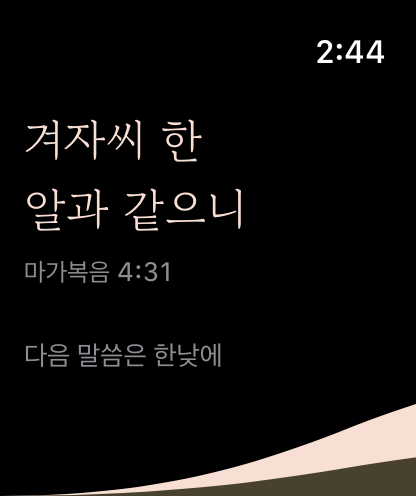
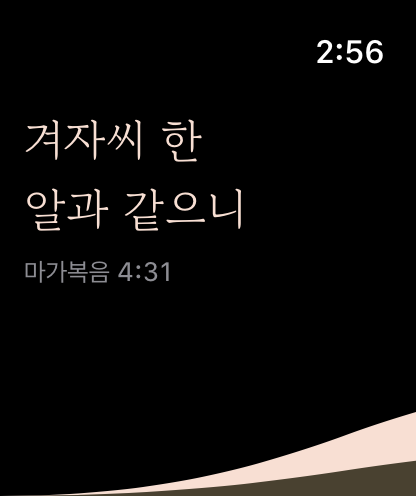
feat: 홍보 스크린샷, 워치 겹침 수정, 큰 글자 대응

diff --git a/design/screenshots-store/source/board.html b/design/screenshots-store/source/board.html
@@ -1,0 +1,1 @@
+<!doctype html><html lang="ko"><meta charset="utf-8"><style>@font-face{font-family:GB;src:url(../../sarak-3/fonts/GowunBatang-Regular.ttf)}body{margin:0;width:2900px}section{position:relative;overflow:hidden;margin-bottom:40px}.bg{position:absolute;left:0;top:0}h1{position:absolute;margin:0;font:400 1em/1.36 GB;letter-spacing:-.035em;white-space:nowrap}h1 small{display:block;margin-top:.7em;letter-spacing:-.02em;font-family:"Apple SD Gothic Neo",sans-serif}.dev{position:absolute;background:#171413;box-shadow:0 30px 70px rgba(74,55,51,.20)}.dev img{display:block}section[id^=Watch] .dev{box-shadow:none}section[id^=Watch] small{display:none}</style><body><section id="iPhone-1" style="width:1320px;height:2868px"><svg class="bg" width="1320" height="2868"><rect width="1320" height="2868" fill="#DDE8DC"/><path d="M0 0H1320V2553C1030 2648 713 2868 0 2868Z" fill="#FCF6E3"/><path d="M0 0H1320V2168C1030 2378 713 2868 0 2868Z" fill="#F5EACB"/></svg><h1 style="left:120px;top:190px;font-size:128px;color:#40322F">오늘의 말씀이<br>찾아옵니다<small style="color:#6B5B57;font-size:46px">아침을 여는 한 구절</small></h1><div class="dev" style="left:141px;top:870px;border-radius:144px;padding:14px;transform:rotate(0deg)"><img src="../../screenshots-raw/iPhone/ph-room-morning.png" style="width:1010px;border-radius:130px"></div></section><section id="iPhone-2" style="width:1320px;height:2868px"><svg class="bg" width="1320" height="2868"><rect width="1320" height="2868" fill="#F8DFD3"/><path d="M0 0H1320V2553C1030 2648 713 2868 0 2868Z" fill="#F2EFF6"/><path d="M0 0H1320V2168C1030 2378 713 2868 0 2868Z" fill="#E2DDEA"/></svg><h1 style="left:120px;top:190px;font-size:128px;color:#40322F">하루 네 번,<br>사락<small style="color:#6B5B57;font-size:46px">아침 · 한낮 · 쉼 · 밤</small></h1><div class="dev" style="left:110px;top:640px;border-radius:75px;padding:9px;transform:rotate(0deg)"><img src="../../screenshots-raw/iPhone/ph-room-morning.png" style="width:512px;border-radius:66px"></div><div class="dev" style="left:680px;top:760px;border-radius:75px;padding:9px;transform:rotate(0deg)"><img src="../../screenshots-raw/iPhone/ph-room-noon.png" style="width:512px;border-radius:66px"></div><div class="dev" style="left:110px;top:1860px;border-radius:75px;padding:9px;transform:rotate(0deg)"><img src="../../screenshots-raw/iPhone/ph-room-rest.png" style="width:512px;border-radius:66px"></div><div class="dev" style="left:680px;top:1980px;border-radius:75px;padding:9px;transform:rotate(0deg)"><img src="../../screenshots-raw/iPhone/ph-room-night.png" style="width:512px;border-radius:66px"></div></section><section id="iPhone-3" style="width:1320px;height:2868px"><svg class="bg" width="1320" height="2868"><rect width="1320" height="2868" fill="#E2DDEA"/><path d="M0 0H1320V2553C1030 2648 713 2868 0 2868Z" fill="#EFF5EE"/><path d="M0 0H1320V2168C1030 2378 713 2868 0 2868Z" fill="#DDE8DC"/></svg><h1 style="left:120px;top:190px;font-size:128px;color:#40322F">하루 5분,<br>마가복음 한 권<small style="color:#6B5B57;font-size:46px">25일이면 끝까지 읽어요</small></h1><div class="dev" style="left:141px;top:870px;border-radius:144px;padding:14px;transform:rotate(0deg)"><img src="../../screenshots-raw/iPhone/ph-read-morning.png" style="width:1010px;border-radius:130px"></div></section><section id="iPhone-4" style="width:1320px;height:2868px"><svg class="bg" width="1320" height="2868"><rect width="1320" height="2868" fill="#F8DFD3"/><path d="M0 0H1320V2553C1030 2648 713 2868 0 2868Z" fill="#F2EFF6"/><path d="M0 0H1320V2168C1030 2378 713 2868 0 2868Z" fill="#E2DDEA"/></svg><h1 style="left:120px;top:190px;font-size:128px;color:#40322F">마음에 머문 말씀을<br>품어 두세요<small style="color:#6B5B57;font-size:46px">받은 때의 색이 책갈피가 됩니다</small></h1><div class="dev" style="left:141px;top:870px;border-radius:144px;padding:14px;transform:rotate(0deg)"><img src="../../screenshots-raw/iPhone/ph-keep-morning.png" style="width:1010px;border-radius:130px"></div></section><section id="iPhone-5" style="width:1320px;height:2868px"><svg class="bg" width="1320" height="2868"><rect width="1320" height="2868" fill="#F5EACB"/><path d="M0 0H1320V2553C1030 2648 713 2868 0 2868Z" fill="#FDF0E9"/><path d="M0 0H1320V2168C1030 2378 713 2868 0 2868Z" fill="#F8DFD3"/></svg><h1 style="left:120px;top:190px;font-size:128px;color:#40322F">오늘도 한 장<br>넘어갑니다<small style="color:#6B5B57;font-size:46px">감사 한 줄을 남겨 보세요</small></h1><div class="dev" style="left:141px;top:870px;border-radius:144px;padding:14px;transform:rotate(0deg)"><img src="../../screenshots-raw/iPhone/ph-done-rest.png" style="width:1010px;border-radius:130px"></div></section><section id="iPhone-6" style="width:1320px;height:2868px"><svg class="bg" width="1320" height="2868"><rect width="1320" height="2868" fill="#5A443C"/><path d="M0 0H1320V2553C1030 2648 713 2868 0 2868Z" fill="#575164"/><path d="M0 0H1320V2168C1030 2378 713 2868 0 2868Z" fill="#2E2A38"/></svg><h1 style="left:120px;top:190px;font-size:128px;color:#F6ECE6">하루를 덮는<br>밤의 말씀<small style="color:#C6B6AE;font-size:46px">어두운 화면에서도 편안하게</small></h1><div class="dev" style="left:141px;top:870px;border-radius:144px;padding:14px;transform:rotate(0deg)"><img src="../../screenshots-raw/iPhone/ph-room-dark.png" style="width:1010px;border-radius:130px"></div></section><section id="iPad-1" style="width:2064px;height:2752px"><svg class="bg" width="2064" height="2752"><rect width="2064" height="2752" fill="#DDE8DC"/><path d="M0 0H2064V2473C1610 2557 1115 2752 0 2752Z" fill="#FCF6E3"/><path d="M0 0H2064V2132C1610 2318 1115 2752 0 2752Z" fill="#F5EACB"/></svg><h1 style="left:170px;top:200px;font-size:150px;color:#40322F">오늘의 말씀이<br>찾아옵니다<small style="color:#6B5B57;font-size:54px">하루 네 번, 시간의 색으로</small></h1><div class="dev" style="left:238px;top:800px;border-radius:58px;padding:14px;transform:rotate(0deg)"><img src="../../screenshots-raw/iPad/pad-room-morning.png" style="width:1560px;border-radius:44px"></div></section><section id="iPad-2" style="width:2064px;height:2752px"><svg class="bg" width="2064" height="2752"><rect width="2064" height="2752" fill="#E2DDEA"/><path d="M0 0H2064V2473C1610 2557 1115 2752 0 2752Z" fill="#EFF5EE"/><path d="M0 0H2064V2132C1610 2318 1115 2752 0 2752Z" fill="#DDE8DC"/></svg><h1 style="left:170px;top:200px;font-size:150px;color:#40322F">펼치면,<br>한 권의 책<small style="color:#6B5B57;font-size:54px">왼쪽에는 말씀, 오른쪽에는 오늘의 본문</small></h1><div class="dev" style="left:98px;top:960px;border-radius:58px;padding:14px;transform:rotate(0deg)"><img src="../../screenshots-raw/iPad/padL-room-morning.png" style="width:1840px;border-radius:44px"></div></section><section id="iPad-3" style="width:2064px;height:2752px"><svg class="bg" width="2064" height="2752"><rect width="2064" height="2752" fill="#F8DFD3"/><path d="M0 0H2064V2473C1610 2557 1115 2752 0 2752Z" fill="#F2EFF6"/><path d="M0 0H2064V2132C1610 2318 1115 2752 0 2752Z" fill="#E2DDEA"/></svg><h1 style="left:170px;top:200px;font-size:150px;color:#40322F">하루 5분,<br>마가복음 한 권<small style="color:#6B5B57;font-size:54px">25일이면 끝까지 읽어요</small></h1><div class="dev" style="left:238px;top:800px;border-radius:58px;padding:14px;transform:rotate(0deg)"><img src="../../screenshots-raw/iPad/pad-read-morning.png" style="width:1560px;border-radius:44px"></div></section><section id="iPad-4" style="width:2064px;height:2752px"><svg class="bg" width="2064" height="2752"><rect width="2064" height="2752" fill="#F5EACB"/><path d="M0 0H2064V2473C1610 2557 1115 2752 0 2752Z" fill="#FDF0E9"/><path d="M0 0H2064V2132C1610 2318 1115 2752 0 2752Z" fill="#F8DFD3"/></svg><h1 style="left:170px;top:200px;font-size:150px;color:#40322F">마음에 머문 말씀을<br>품어 두세요<small style="color:#6B5B57;font-size:54px">넓은 화면에서 한 구절씩</small></h1><div class="dev" style="left:98px;top:960px;border-radius:58px;padding:14px;transform:rotate(0deg)"><img src="../../screenshots-raw/iPad/padL-keep-morning.png" style="width:1840px;border-radius:44px"></div></section><section id="iPhone-Duo-1" style="width:2853px;height:2007px"><svg class="bg" width="2853" height="2007"><rect width="2853" height="2007" fill="#DDE8DC"/><path d="M0 0H2853V1800C2225 1862 1541 2007 0 2007Z" fill="#FCF6E3"/><path d="M0 0H2853V1547C2225 1685 1541 2007 0 2007Z" fill="#F5EACB"/></svg><h1 style="left:180px;top:150px;font-size:140px;color:#40322F">펼치면, 한 권의 책<small style="color:#6B5B57;font-size:50px">왼쪽에는 말씀, 오른쪽에는 오늘의 본문</small></h1><div class="dev" style="left:470px;top:690px;border-radius:126px;padding:16px;transform:rotate(0deg)"><img src="../../screenshots-raw/iPhone-Duo/duoO-room-morning.png" style="width:1900px;border-radius:110px"></div></section><section id="iPhone-Duo-2" style="width:2853px;height:2007px"><svg class="bg" width="2853" height="2007"><rect width="2853" height="2007" fill="#F5EACB"/><path d="M0 0H2853V1800C2225 1862 1541 2007 0 2007Z" fill="#FDF0E9"/><path d="M0 0H2853V1547C2225 1685 1541 2007 0 2007Z" fill="#F8DFD3"/></svg><h1 style="left:180px;top:150px;font-size:140px;color:#40322F">하루를 덮는 밤의 말씀<small style="color:#6B5B57;font-size:50px">하루 네 번, 시간의 색으로</small></h1><div class="dev" style="left:470px;top:690px;border-radius:126px;padding:16px;transform:rotate(0deg)"><img src="../../screenshots-raw/iPhone-Duo/duoO-room-night.png" style="width:1900px;border-radius:110px"></div></section><section id="iPhone-Duo-3" style="width:2853px;height:2007px"><svg class="bg" width="2853" height="2007"><rect width="2853" height="2007" fill="#E2DDEA"/><path d="M0 0H2853V1800C2225 1862 1541 2007 0 2007Z" fill="#EFF5EE"/><path d="M0 0H2853V1547C2225 1685 1541 2007 0 2007Z" fill="#DDE8DC"/></svg><h1 style="left:180px;top:150px;font-size:140px;color:#40322F">마음에 머문 말씀을 품어 두세요<small style="color:#6B5B57;font-size:50px">목록과 한 구절을 나란히</small></h1><div class="dev" style="left:470px;top:690px;border-radius:126px;padding:16px;transform:rotate(0deg)"><img src="../../screenshots-raw/iPhone-Duo/duoO-keep-morning.png" style="width:1900px;border-radius:110px"></div></section><section id="iPhone-Duo-4-접힘" style="width:1398px;height:2034px"><svg class="bg" width="1398" height="2034"><rect width="1398" height="2034" fill="#F8DFD3"/><path d="M0 0H1398V1827C1090 1889 755 2034 0 2034Z" fill="#F2EFF6"/><path d="M0 0H1398V1574C1090 1712 755 2034 0 2034Z" fill="#E2DDEA"/></svg><h1 style="left:120px;top:150px;font-size:110px;color:#40322F">접으면, 한 구절<small style="color:#6B5B57;font-size:40px">말씀과 버튼이 한 화면에</small></h1><div class="dev" style="left:195px;top:560px;border-radius:110px;padding:14px;transform:rotate(0deg)"><img src="../../screenshots-raw/iPhone-Duo/duoC-room-morning.png" style="width:980px;border-radius:96px"></div></section><section id="Watch-1" style="width:416px;height:496px"><svg class="bg" width="416" height="496"><rect width="416" height="496" fill="#DDE8DC"/><path d="M0 0H416V446C324 461 225 496 0 496Z" fill="#FCF6E3"/><path d="M0 0H416V386C324 419 225 496 0 496Z" fill="#F5EACB"/></svg><h1 style="left:30px;top:34px;font-size:36px;color:#40322F">손목 위의 한 구절<small style="color:#6B5B57;font-size:13px"></small></h1><div class="dev" style="left:64px;top:150px;border-radius:68px;padding:10px;transform:rotate(0deg)"><img src="../../screenshots-raw/Watch/w-morning.png" style="width:268px;border-radius:58px"></div></section><section id="Watch-2" style="width:416px;height:496px"><svg class="bg" width="416" height="496"><rect width="416" height="496" fill="#E2DDEA"/><path d="M0 0H416V446C324 461 225 496 0 496Z" fill="#EFF5EE"/><path d="M0 0H416V386C324 419 225 496 0 496Z" fill="#DDE8DC"/></svg><h1 style="left:30px;top:34px;font-size:36px;color:#40322F">잠시 숨을 골라요<small style="color:#6B5B57;font-size:13px"></small></h1><div class="dev" style="left:64px;top:150px;border-radius:68px;padding:10px;transform:rotate(0deg)"><img src="../../screenshots-raw/Watch/w-noon.png" style="width:268px;border-radius:58px"></div></section><section id="Watch-3" style="width:416px;height:496px"><svg class="bg" width="416" height="496"><rect width="416" height="496" fill="#F5EACB"/><path d="M0 0H416V446C324 461 225 496 0 496Z" fill="#FDF0E9"/><path d="M0 0H416V386C324 419 225 496 0 496Z" fill="#F8DFD3"/></svg><h1 style="left:30px;top:34px;font-size:36px;color:#40322F">하루를 덮는 말씀<small style="color:#6B5B57;font-size:13px"></small></h1><div class="dev" style="left:64px;top:150px;border-radius:68px;padding:10px;transform:rotate(0deg)"><img src="../../screenshots-raw/Watch/w-night.png" style="width:268px;border-radius:58px"></div></section></body></html>

diff --git a/ios-native/Sarak/Core/SarakDesign.swift b/ios-native/Sarak/Core/SarakDesign.swift
@@ -215,6 +215,7 @@ struct RoomScreen<Tools: View, Action: View, Reading: View>: View {
                 Spacer()
                 tools
             }
+            .dynamicTypeSize(...DynamicTypeSize.accessibility1)
             Spacer(minLength: Space.huge)
             VerseText(text: verse, source: source, size: verse.count > 44 ? size * 0.72 : size)
         }
@@ -238,32 +239,34 @@ struct WatchVerse: View {
     let source: String
     let next: String
     @Environment(\.isLuminanceReduced) private var dimmed
-    @ScaledMetric(relativeTo: .title2) private var size: CGFloat = 23
+    @ScaledMetric(relativeTo: .title2) private var scale: CGFloat = 1
+    private var size: CGFloat { (verse.count > 30 ? 20 : 23) * scale }
     var body: some View {
         GeometryReader { geo in
+            let i = geo.safeAreaInsets
             ScrollView {
                 VStack(alignment: .leading, spacing: 6) {
-                    Text(verse.versed(8)).font(.custom("GowunBatang-Regular", fixedSize: size)).lineSpacing(1)
+                    Text(verse.versed(verse.count > 30 ? 9 : 8)).font(.custom("GowunBatang-Regular", fixedSize: size)).lineSpacing(1)
                         .foregroundStyle(dimmed ? Ink.sub : hour.glow).fixedSize(horizontal: false, vertical: true)
                     Text(source).font(.footnote).foregroundStyle(.secondary)
-                    if !dimmed { Text(next).font(.caption2).foregroundStyle(.secondary).padding(.top, 18) }
+                    if verse.count > 30, !dimmed { Text(next).font(.caption2).foregroundStyle(.secondary).padding(.top, 10) }
+                    Spacer(minLength: 8)
+                    // 종이 끝은 글 아래에 놓입니다. 긴 말씀에서는 끝까지 내려야 보이고 글과 겹치지 않습니다.
+                    if !dimmed {
+                        ZStack {
+                            Rectangle().fill(hour.next.page)
+                            LiftedPage(lift: 42, layer: 0.42).fill(hour.glow)
+                            LiftedPage(lift: 42).fill(.black)
+                        }
+                        .frame(height: 46)
+                        .padding(.horizontal, -10).padding(.leading, -i.leading).padding(.trailing, -i.trailing)
+                        .accessibilityHidden(true)
+                    }
                 }
-                .frame(maxWidth: .infinity, alignment: .leading)
+                .frame(maxWidth: .infinity, minHeight: geo.size.height + i.bottom, alignment: .leading)
                 .padding(.horizontal, 10)
             }
-            // 종이 끝은 화면 바닥에 고정합니다. 어두워지면 끕니다.
-            .background(alignment: .bottom) {
-                if !dimmed {
-                    ZStack {
-                        Rectangle().fill(hour.next.page)
-                        LiftedPage(lift: 46, layer: 0.42).fill(hour.glow)
-                        LiftedPage(lift: 46).fill(.black)
-                    }
-                    .frame(width: geo.size.width + geo.safeAreaInsets.leading + geo.safeAreaInsets.trailing, height: 60)
-                    .padding(.bottom, -geo.safeAreaInsets.bottom)
-                    .accessibilityHidden(true)
-                }
-            }
+            .ignoresSafeArea(edges: .bottom)
         }
         .background(Color.black)
     }

diff --git a/ios-native/Sarak/Core/WordAlerts.swift b/ios-native/Sarak/Core/WordAlerts.swift
@@ -63,11 +63,16 @@ enum WordAlerts {
                 var c = cal.dateComponents([.year, .month, .day], from: date)
                 c.hour = slot.h; c.minute = slot.m
                 guard let fire = cal.date(from: c), fire > now else { continue }
-                try? await center.add(UNNotificationRequest(identifier: "\(prefix)\(dayKey(date)).\(slot.id)",
+                let request = UNNotificationRequest(identifier: "\(prefix)\(dayKey(date)).\(slot.id)",
                     content: content(plan.alert(slot.hour), slot: slot.hour, showVerse: s.showVerse),
-                    trigger: UNCalendarNotificationTrigger(dateMatching: c, repeats: false)))
+                    trigger: UNCalendarNotificationTrigger(dateMatching: c, repeats: false))
+                do { try await center.add(request) } catch { NSLog("SARAK add failed \(error)") }
             }
         }
+        #if DEBUG
+        let p = await center.pendingNotificationRequests()
+        NSLog("SARAK alerts enabled \(s.enabled) slots \(s.slots.filter(\.on).count) skip \(s.skipDate ?? "-") old \(old.count) pending \(p.count) auth \(await center.notificationSettings().authorizationStatus.rawValue) first \(p.compactMap { ($0.trigger as? UNCalendarNotificationTrigger)?.nextTriggerDate() }.min().map(\.description) ?? "-")")
+        #endif
     }
 
     static func content(_ a: WordPath.Alert, slot: SarakHour, showVerse: Bool) -> UNMutableNotificationContent {

diff --git a/ios-native/Sarak/Features/ReadingView.swift b/ios-native/Sarak/Features/ReadingView.swift
@@ -84,6 +84,7 @@ struct PassageBody: View {
                 act("나누기", "square.and.arrow.up") { share = ShareVerses(verses: picked, bookName: model.bookName(picked[0])) }
                 Button { model.selected = [] } label: { Image(systemName: "xmark").frame(width: 44, height: 44) }.accessibilityLabel("선택 해제")
             }
+            .dynamicTypeSize(...DynamicTypeSize.xLarge)
             .padding(.horizontal, 12).frame(minHeight: 60).frame(maxWidth: 420)
             .foregroundStyle(Ink.ink)
             .background(Ink.raised, in: Capsule())

diff --git a/design/screenshots-store/source/build.py b/design/screenshots-store/source/build.py
@@ -1,0 +1,37 @@
+# 홍보 스크린샷 만들기: python3 build.py → board.html, 이어서 node shoot.mjs
+import os
+H=os.path.dirname(os.path.abspath(__file__)); RAW='../../screenshots-raw/'
+P={'m':('#F8DFD3','#FDF0E9','#F5EACB'),'n':('#F5EACB','#FCF6E3','#DDE8DC'),'r':('#DDE8DC','#EFF5EE','#E2DDEA'),'l':('#E2DDEA','#F2EFF6','#F8DFD3'),'d':('#2E2A38','#575164','#5A443C')}
+def curve(w,h,c,t):
+    p,f,n=P[t]; e=lambda k:f'M0 {h-c*1.2*0}L{w} {h-c*k}'
+    path=lambda k:f'M0 0H{w}V{h-c*k:.0f}C{w*.78:.0f} {h-c*k*.70:.0f} {w*.54:.0f} {h} 0 {h}Z'
+    return f'<svg class="bg" width="{w}" height="{h}"><rect width="{w}" height="{h}" fill="{n}"/><path d="{path(.45)}" fill="{f}"/><path d="{path(1)}" fill="{p}"/></svg>'
+def shot(src,w,x,y,r,b,rot=0): return f'<div class="dev" style="left:{x}px;top:{y}px;border-radius:{r+b}px;padding:{b}px;transform:rotate({rot}deg)"><img src="{RAW}{src}" style="width:{w}px;border-radius:{r}px"></div>'
+out=[]
+def canvas(id,w,h,t,head,sub,body,fs,pad,top,c):
+    ink='#F6ECE6' if t=='d' else '#40322F'; s2='#C6B6AE' if t=='d' else '#6B5B57'
+    out.append(f'<section id="{id}" style="width:{w}px;height:{h}px">{curve(w,h,c,t)}<h1 style="left:{pad}px;top:{top}px;font-size:{fs}px;color:{ink}">{head}<small style="color:{s2};font-size:{fs*.36:.0f}px">{sub}</small></h1>{body}</section>')
+def phone(id,t,head,sub,src): canvas(id,1320,2868,t,head,sub,shot('iPhone/'+src,1010,141,870,130,14),128,120,190,700)
+phone('iPhone-1','n','오늘의 말씀이<br>찾아옵니다','아침을 여는 한 구절','ph-room-morning.png')
+xs=[('ph-room-morning.png',110,640),('ph-room-noon.png',680,760),('ph-room-rest.png',110,1860),('ph-room-night.png',680,1980)]
+canvas('iPhone-2',1320,2868,'l','하루 네 번,<br>사락','아침 · 한낮 · 쉼 · 밤',''.join(shot('iPhone/'+a,512,x,y,66,9) for a,x,y in xs),128,120,190,700)
+phone('iPhone-3','r','하루 5분,<br>마가복음 한 권','25일이면 끝까지 읽어요','ph-read-morning.png')
+phone('iPhone-4','l','마음에 머문 말씀을<br>품어 두세요','받은 때의 색이 책갈피가 됩니다','ph-keep-morning.png')
+phone('iPhone-5','m','오늘도 한 장<br>넘어갑니다','감사 한 줄을 남겨 보세요','ph-done-rest.png')
+phone('iPhone-6','d','하루를 덮는<br>밤의 말씀','어두운 화면에서도 편안하게','ph-room-dark.png')
+def pad(id,t,head,sub,src,land=False):
+    b=shot('iPad/'+src,1840 if land else 1560,98 if land else 238,960 if land else 800,44,14) 
+    canvas(id,2064,2752,t,head,sub,b,150,170,200,620)
+pad('iPad-1','n','오늘의 말씀이<br>찾아옵니다','하루 네 번, 시간의 색으로','pad-room-morning.png')
+pad('iPad-2','r','펼치면,<br>한 권의 책','왼쪽에는 말씀, 오른쪽에는 오늘의 본문','padL-room-morning.png',True)
+pad('iPad-3','l','하루 5분,<br>마가복음 한 권','25일이면 끝까지 읽어요','pad-read-morning.png')
+pad('iPad-4','m','마음에 머문 말씀을<br>품어 두세요','넓은 화면에서 한 구절씩','padL-keep-morning.png',True)
+def duo(id,t,head,sub,src): canvas(id,2853,2007,t,head,sub,shot('iPhone-Duo/'+src,1900,470,690,110,16),140,180,150,460)
+duo('iPhone-Duo-1','n','펼치면, 한 권의 책','왼쪽에는 말씀, 오른쪽에는 오늘의 본문','duoO-room-morning.png')
+duo('iPhone-Duo-2','m','하루를 덮는 밤의 말씀','하루 네 번, 시간의 색으로','duoO-room-night.png')
+duo('iPhone-Duo-3','r','마음에 머문 말씀을 품어 두세요','목록과 한 구절을 나란히','duoO-keep-morning.png')
+canvas('iPhone-Duo-4-접힘',1398,2034,'l','접으면, 한 구절','말씀과 버튼이 한 화면에',shot('iPhone-Duo/duoC-room-morning.png',980,195,560,96,14),110,120,150,460)
+def watch(id,t,head,src): canvas(id,416,496,t,head,'',shot('Watch/'+src,268,64,150,58,10),36,30,34,110)
+watch('Watch-1','n','손목 위의 한 구절','w-morning.png'); watch('Watch-2','r','잠시 숨을 골라요','w-noon.png'); watch('Watch-3','m','하루를 덮는 말씀','w-night.png')
+css='''@font-face{font-family:GB;src:url(../../sarak-3/fonts/GowunBatang-Regular.ttf)}body{margin:0;width:2900px}section{position:relative;overflow:hidden;margin-bottom:40px}.bg{position:absolute;left:0;top:0}h1{position:absolute;margin:0;font:400 1em/1.36 GB;letter-spacing:-.035em;white-space:nowrap}h1 small{display:block;margin-top:.7em;letter-spacing:-.02em;font-family:"Apple SD Gothic Neo",sans-serif}.dev{position:absolute;background:#171413;box-shadow:0 30px 70px rgba(74,55,51,.20)}.dev img{display:block}section[id^=Watch] .dev{box-shadow:none}section[id^=Watch] small{display:none}'''
+open(H+'/board.html','w').write(f'<!doctype html><html lang="ko"><meta charset="utf-8"><style>{css}</style><body>{"".join(out)}</body></html>')

diff --git a/HANDOFF.md b/HANDOFF.md
@@ -40,23 +40,23 @@ cd ios-native && xcodegen generate && open Sarak.xcodeproj
 - 디버그 빌드 성공(시뮬레이터, 워치 앱 포함)
 - iPhone 18 Pro Max: 화면 12종과 다크 골방 실행, 절 선택과 마치기 저장 확인
 - iPad Pro 13: 세로와 가로(펼친 책)
-- Apple Watch Series 11 46mm: 앱이 실행되고 네 시간 캡처. **문제: 긴 말씀(쉼)이 바닥의 종이 끝과 겹침**
+- Apple Watch Series 11 46mm: 앱이 실행되고 네 시간 캡처. 긴 말씀 겹침은 수정함
 - iPhone Duo: 펼침 가로(골방·말씀첩), 닫힘(골방)
 
 ### 확인하지 못한 것
 - 워치와 아이폰 연결, 42mm·49mm 화면, 항상 표시
-- 실제 알림 수신과 알림 동작 네 가지
+- 실제 알림 도착과 알림 동작 네 가지
 - 듀오 펼침 세로와 반쯤 접힘, 접었다 펼 때 이어지는지
-- 아이폰 가로, 가장 큰 글자, VoiceOver
-- 로그인한 상태의 '함께' 화면과 옛 버전에서 업데이트
+- 아이폰 가로, VoiceOver
+- 로그인한 상태의 '함께' 화면, 실제 스토어 버전에서 업데이트
 - Release 빌드와 업로드
 
 ## 남은 작업 (순서대로)
 
-1. [ ] **워치 수정**: `SarakDesign.swift`의 `WatchVerse`에서 긴 말씀이 종이 끝과 겹칩니다. 짧은 말씀에만 종이 끝을 보이거나, 종이를 스크롤 내용의 맨 아래로 옮기세요. 그 뒤 42mm·46mm·49mm에서 확인하고 다시 캡처합니다. 워치는 상태 표시 시각을 바꿀 수 없습니다
-2. [ ] **위의 '확인하지 못한 것' 점검**과 수정
-3. [ ] **스크린샷 원본 보충**: 듀오 닫힘 읽기·쉼, 워치(수정 후 다시). 있는 것은 `design/screenshots-raw`, 캡처는 `ios-native/scripts/cap.sh`
-4. [ ] **홍보 문구 스크린샷 제작**: 아이폰 6.9형 1320×2868, 아이패드 13형 2064×2752, 워치 416×496 또는 422×514. 듀오 규격은 App Store Connect에서 확인. 파스텔 바탕, 고운바탕 문구, 아래에 실제 앱 화면
+1. [x] **워치 수정**: 긴 말씀과 종이 끝이 겹치지 않게 고침(46mm 확인). 42mm·49mm는 미확인
+2. [ ] **남은 점검**: 실기기에서 알림 도착과 동작 네 가지(시뮬레이터에서 예약 53개는 확인), 듀오 반쯤 접힘, 로그인한 함께 화면. 확인 끝: 가장 큰 글자, 옛 플랜 이어받기, 첫 실행
+3. [x] **스크린샷 원본**: `design/screenshots-raw`
+4. [x] **홍보 문구 스크린샷**: `design/screenshots-store`(아이폰 6, 아이패드 4, 듀오 4, 워치 3). 고치려면 `source/build.py` 뒤 `node shoot.mjs`
    - 오늘의 말씀이 찾아옵니다 (골방 아침)
    - 하루 네 번, 사락 (네 시간)
    - 하루 5분, 25일이면 마가복음 한 권 (읽기)
